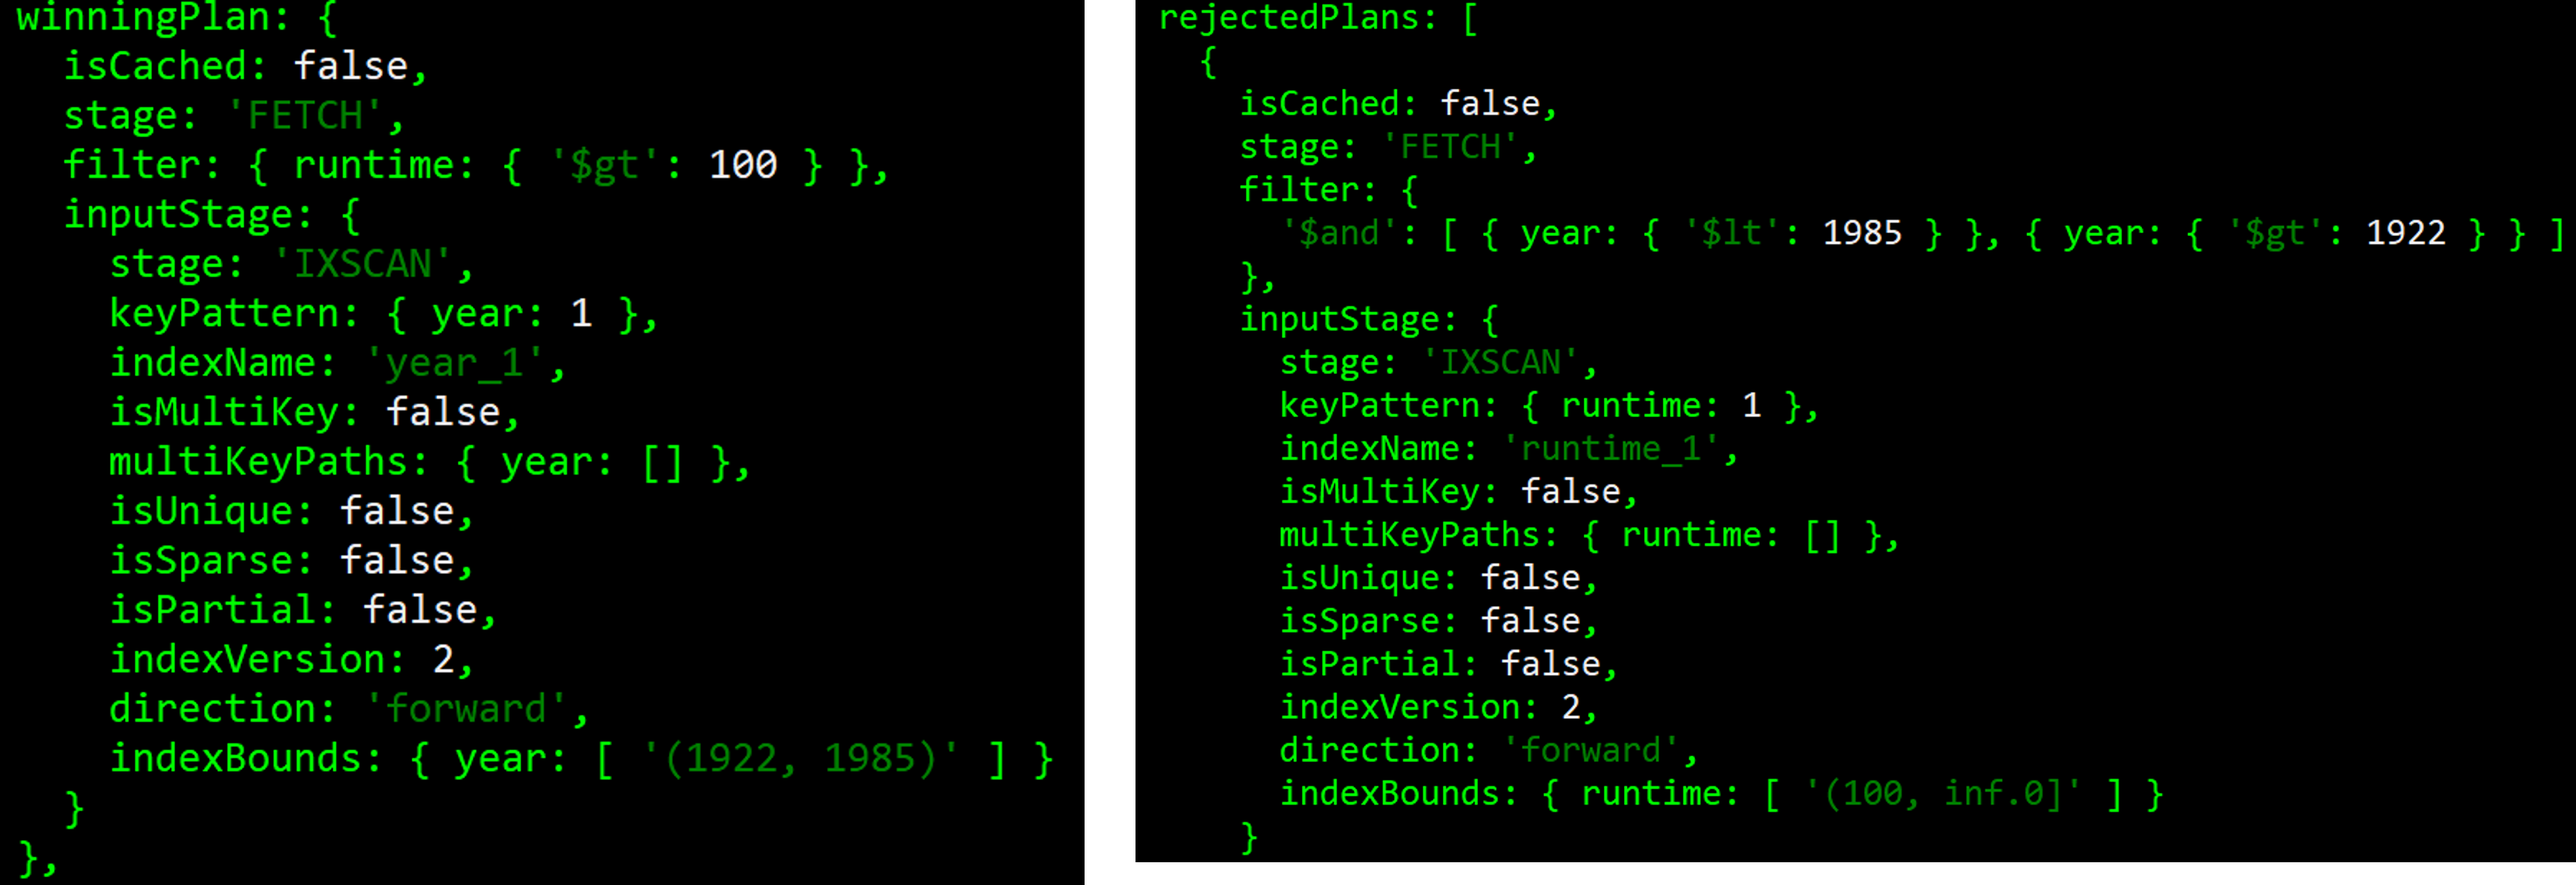
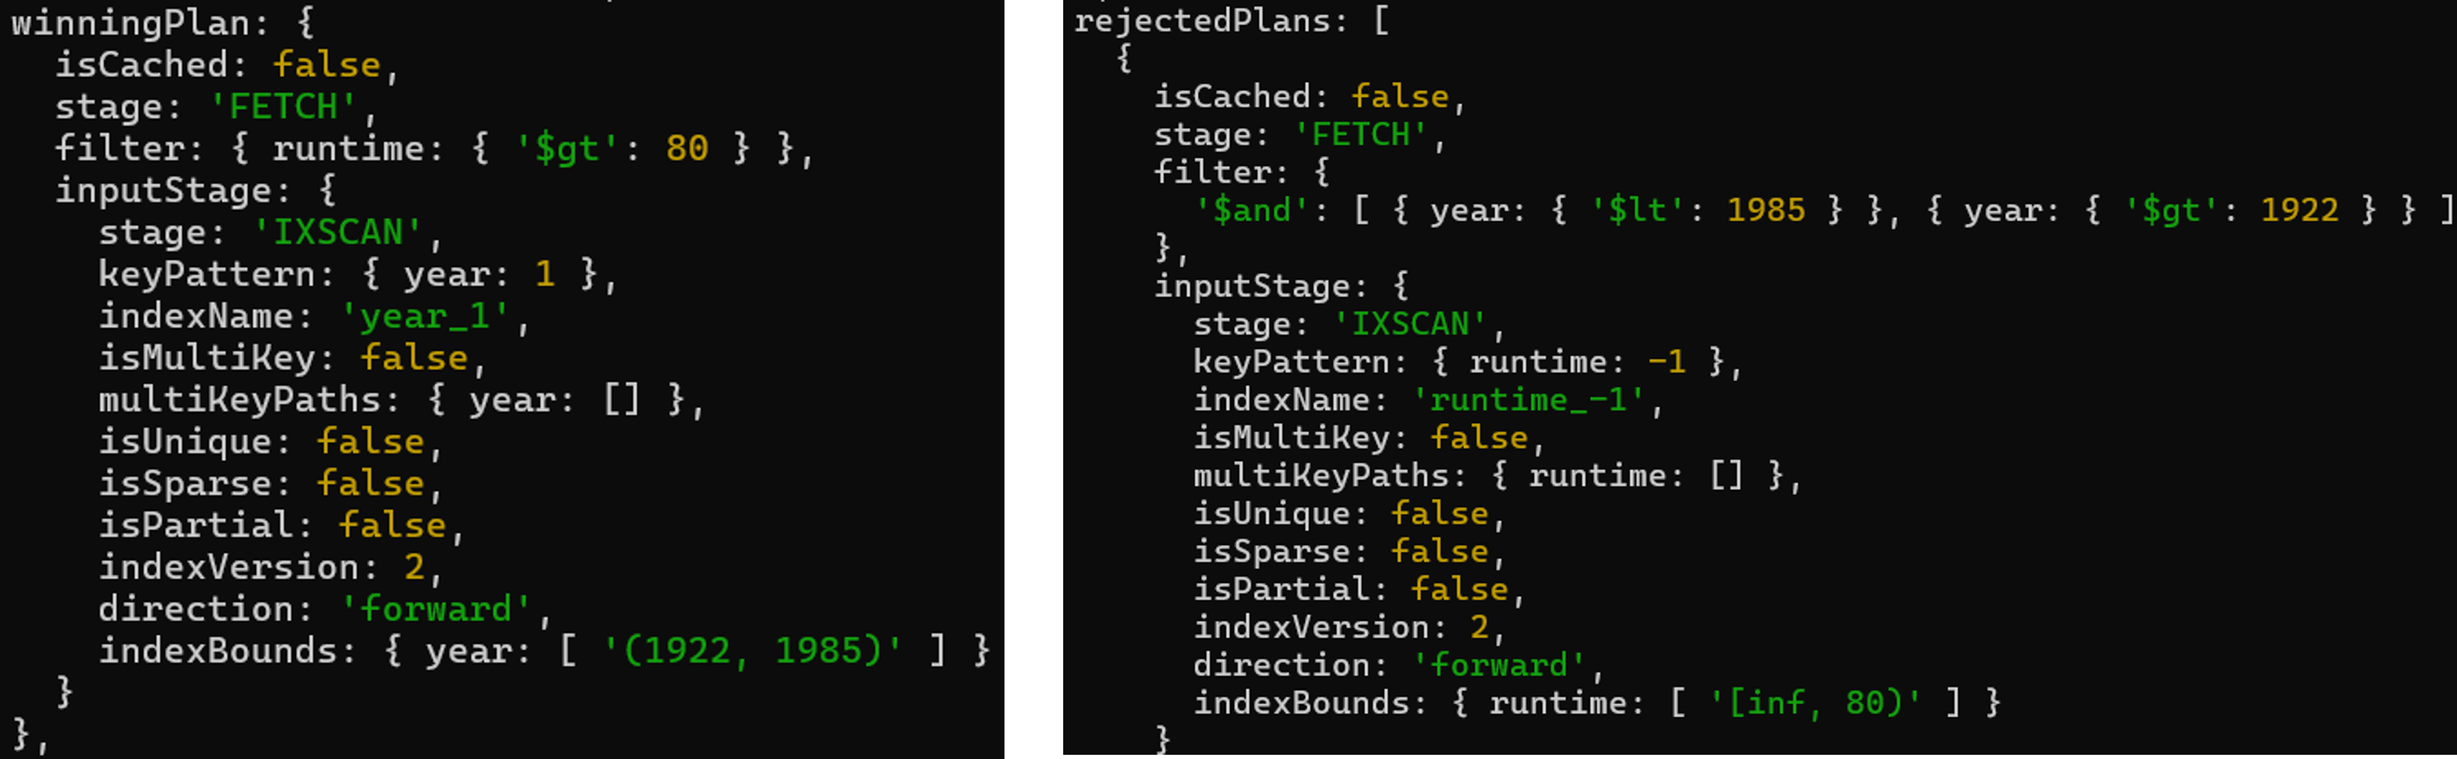
updated the indexes lab

Changed region(s): [[0.0, 0.0, 1.0, 1.0], [0.0, 0.8927, 0.0312, 1.0]]

diff --git a/docs/lab-7-indexes.md b/docs/lab-7-indexes.md
@@ -1,6 +1,6 @@
-# Lab 6 - MongoDB indexes
+# Week 9 Lab - MongoDB indexes
 
-This is a shorter lab to get you introduced to **indexes** in MongoDB for optimising query performance. We'll look at single-field indexes, compound indexes, and multi-key indexes. There will be fewer screenshots and examples of the code you need to write to give you a bit of practice in figuring out exactly what needs to be done.
+The very best of mornings to you! This is a shorter lab to get you introduced to **indexes** in MongoDB for optimising query performance. We'll look at single-field indexes, compound indexes, and multi-key indexes. There will be fewer screenshots and examples of the code you need to write to give you a bit of practice in figuring out exactly what needs to be done.
 
 <img src="mongo/lab6/indexes.png" class="awssmaller">
 
@@ -41,7 +41,7 @@ You can of course have more than one index on a collection.
 
 You should see the above three indexes - the two that you've created, and a default index on the _id field that is always present.
 
->Let's try running a query that uses both the year and the runtime. I want you to write a query that finds movies **between 1922 and 1985**, with a runtime of **more than 100 minutes**.
+>Let's try running a query that uses both the year and the runtime. I want you to write a query that finds movies **between 1922 and 1985**, with a runtime of **more than 80 minutes**.
 
 We won't worry about the execution stats right now. What we can do instead is run `db.movies.explain().find(*your query goes here*)`. This will return a shorter explanation of the query details. What I want you to notice this time is that we have a `winningPlan` field and a `rejectedPlans` field. Mine look like this:
 
@@ -77,7 +77,7 @@ Much better! You should also hopefully see that the new execution strategy used 
 ### Querying on embedded fields
 If we have something we want to index that's not a direct value or an array (i.e., it's in a subdocument) we can do that too. Consider the 'awards' field of our movie documents. The value of this is a subdocument containing awards, nominations, and text. 
 
->Try this out: query to find all movies with more than 15 wins, then add a new index on the `wins` field of the `awards` object, then run the query again. How much speed-up do you get?
+>Try this out: query to find all movies with more than 15 wins, then add a new index on the `wins` field of the `awards` object (hint: you can use `awards.wins` in the query syntax), then run the query again. How much speed-up do you get?
 
 ## Compound indexes
 A compound index, as you might expect, is an index that makes use of multiple fields, as opposed to having two separate single-field indexes. Note that our multi-key indexes in the previous section were also single-field indexes (because we only indexed on the array). 
@@ -86,7 +86,7 @@ A compound index, as you might expect, is an index that makes use of multiple fi
 
 <img src="mongo/lab6/mongo14.PNG" class="awssmallest left">
 
->Now run the original query you had to find movies released between 1922 and 1985, with a runtime of over 100 minutes, and get the execution stats.
+>Now run the original query you had to find movies released between 1922 and 1985, with a runtime of over 80 minutes, and get the execution stats.
 
 <img src="mongo/lab6/mongo15.PNG" class="awssmallest left">
 
